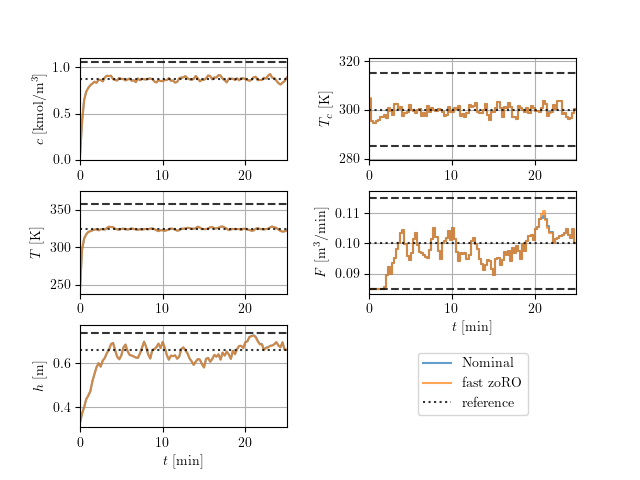
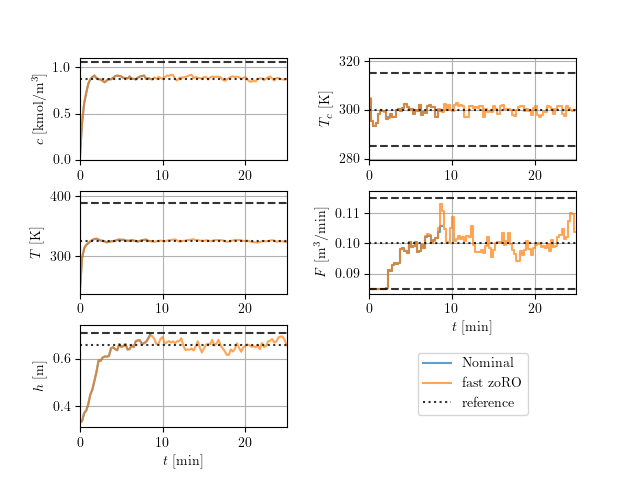
cstr: constraint violation with nominal MPC

diff --git a/examples/acados_python/zoRO_example/cstr/main.py b/examples/acados_python/zoRO_example/cstr/main.py
@@ -22,6 +22,8 @@ def samplesFromEllipsoid(N, w, Z)->np.ndarray:
     draws samples from ellipsoid with center w and variability matrix Z
     """
 
+    np.random.seed(1)
+
     nw = w.shape[0]                  # dimension
     lam, v = np.linalg.eig(Z)
 
@@ -46,7 +48,8 @@ def simulate(
     X_ref: np.ndarray,
     U_ref: np.ndarray,
     cstr_tightening: Boolean,
-    dist_samples: np.ndarray
+    dist_samples: np.ndarray,
+    ubx: np.ndarray
 ):
 
     nx = X_ref.shape[1]
@@ -57,53 +60,79 @@ def simulate(
     timings_solver = np.zeros((Nsim))
     timings_integrator = np.zeros((Nsim))
 
+    Nexec = 10
+
     # closed loop
     xcurrent = x0
     X[0, :] = xcurrent
 
-    for i in range(Nsim):
+    for i_exec in range(Nexec):
+        # Reset the controller
+        xcurrent = x0
+        controller.reset()
+        for i_stage in range(0, controller.acados_ocp.dims.N):
+            controller.set(i_stage, 'u', np.zeros((controller.acados_ocp.dims.nu,)))
+            controller.set(i_stage, 'x', x0)
 
-        # set initial state
-        controller.set(0, "lbx", xcurrent)
-        controller.set(0, "ubx", xcurrent)
+        for i_sim in range(Nsim):
 
-        yref = np.concatenate((X_ref[i, :], U_ref[i, :]))
-        for stage in range(controller.acados_ocp.dims.N):
-            controller.set(stage, "yref", yref)
-        controller.set(controller.acados_ocp.dims.N, "yref", X_ref[i, :])
+            # set initial state
+            controller.set(0, "lbx", xcurrent)
+            controller.set(0, "ubx", xcurrent)
 
-        if cstr_tightening:
-            controller.custom_update([])
+            yref = np.concatenate((X_ref[i_sim, :], U_ref[i_sim, :]))
+            for stage in range(controller.acados_ocp.dims.N):
+                controller.set(stage, "yref", yref)
+            controller.set(controller.acados_ocp.dims.N, "yref", X_ref[i_sim, :])
 
-        # solve ocp
-        status = controller.solve()
+            if cstr_tightening:
+                controller.custom_update([])
 
-        if status != 0:
-            controller.print_statistics()
-            raise Exception(
-                f"acados controller returned status {status} in simulation step {i}. Exiting."
-            )
+            # solve ocp
+            status = controller.solve()
 
-        U[i, :] = controller.get(0, "u")
-        timings_solver[i] = controller.get_stats("time_tot")
+            if status != 0:
+                controller.print_statistics()
+                raise Exception(
+                    f"acados controller returned status {status} in simulation step {i_sim}. Exiting."
+                )
 
-        # simulate system
-        plant.set("x", xcurrent)
-        plant.set("u", U[i, :])
+            U[i_sim, :] = controller.get(0, "u")
+            if i_exec ==0:
+                timings_solver[i_sim] = controller.get_stats("time_tot")
+            else:
+                timings_solver[i_sim] = min(controller.get_stats("time_tot"), timings_solver[i_sim])
 
-        if plant.acados_sim.solver_options.integrator_type == "IRK":
-            plant.set("xdot", np.zeros((nx,)))
+            # simulate system
+            plant.set("x", xcurrent)
+            plant.set("u", U[i_sim, :])
 
-        status = plant.solve()
-        if status != 0:
-            raise Exception(
-                f"acados integrator returned status {status} in simulation step {i}. Exiting."
-            )
+            if plant.acados_sim.solver_options.integrator_type == "IRK":
+                plant.set("xdot", np.zeros((nx,)))
 
-        timings_integrator[i] = plant.get("time_tot")
-        # update state
-        xcurrent = plant.get("x") + dist_samples[i,:]
-        X[i + 1, :] = xcurrent
+            status = plant.solve()
+            if status != 0:
+                raise Exception(
+                    f"acados integrator returned status {status} in simulation step {i_sim}. Exiting."
+                )
+
+            if i_exec == 0:
+                timings_integrator[i_sim] = plant.get("time_tot")
+            else:
+                timings_integrator[i_sim] = min(plant.get("time_tot"), timings_integrator[i_sim])
+
+            # update state
+            xcurrent = plant.get("x") + dist_samples[i_sim,:]
+            X[i_sim + 1, :] = xcurrent
+
+            # if exceeds the upper bound of the state constraints
+            if (xcurrent > ubx).any():
+                X[(i_sim+1):, :] = np.nan
+                U[min(i_sim+1, Nsim):, :] = np.nan
+                timings_solver[min(i_sim+1, Nsim):] = np.nan
+                timings_integrator[min(i_sim+1, Nsim):] = np.nan
+                print("exceed the upper bound at i_sim=", i_sim)
+                break
 
     return X, U, timings_solver, timings_integrator
 
@@ -150,10 +179,10 @@ def main():
     mpc_params.cstr_tightening = False
     ocp_solver = setup_acados_ocp_solver(model, mpc_params, cstr_params=cstr_params, dist_params=dist_params)
 
+    ubx = cstr_params.xs * (1.0 + np.array([dist_params.c_exceed_ratio, dist_params.t_exceed_ratio, dist_params.h_exceed_ratio]))
     X, U, timings_solver, _ = simulate(
         ocp_solver, integrator, x0, Nsim, X_ref=X_ref, U_ref=U_ref, \
-            cstr_tightening=False, dist_samples = dist_samples,
-    )
+            cstr_tightening=False, dist_samples=dist_samples, ubx=ubx)
     X_all.append(X)
     U_all.append(U)
     timings_solver_all.append(timings_solver)
@@ -168,8 +197,7 @@ def main():
 
     X, U, timings_solver, _ = simulate(
         ocp_solver, integrator, x0, Nsim, X_ref=X_ref, U_ref=U_ref, \
-            cstr_tightening=True, dist_samples = dist_samples,
-    )
+            cstr_tightening=True, dist_samples=dist_samples, ubx = ubx)
     X_all.append(X)
     U_all.append(U)
     timings_solver_all.append(timings_solver)
@@ -182,7 +210,7 @@ def main():
         label = labels_all[i]
         timings_solver = timings_solver_all[i] * 1e3
         print(
-            f"{label}:\n min: {np.min(timings_solver):.3f} ms, mean: {np.mean(timings_solver):.3f} ms, max: {np.max(timings_solver):.3f} ms\n"
+            f"{label}:\n min: {np.nanmin(timings_solver):.3f} ms, mean: {np.nanmean(timings_solver):.3f} ms, max: {np.nanmax(timings_solver):.3f} ms\n"
         )
 
     matplotlib.use("TkAgg")

diff --git a/examples/acados_python/zoRO_example/custom_update_function_zoro_template.in.c b/examples/acados_python/zoRO_example/custom_update_function_zoro_template.in.c
@@ -674,13 +674,6 @@ static void uncertainty_propagate_and_update(ocp_nlp_solver *solver, ocp_nlp_in 
             + sqrt(blasfeo_dgeex1(&custom_mem->uncertainty_matrix_buffer[N],
                 custom_mem->idxbx_e[{{it}}],custom_mem->idxbx_e[{{it}}]));
     {%- endfor %}
-    // printf("P_k+1:\n");
-    // blasfeo_print_exp_dmat(nx, nx, &(custom_mem->uncertainty_matrix_buffer[N]), 0, 0);
-    // printf("d_lbx=%f, %f. beta=%f, %f. d_lbx_tightened=%f, %f.\n",
-    //         custom_mem->d_lbx_e[0], custom_mem->d_lbx_e[1],
-    //         sqrt(blasfeo_dgeex1(&custom_mem->uncertainty_matrix_buffer[N], 3, 3)),
-    //         sqrt(blasfeo_dgeex1(&custom_mem->uncertainty_matrix_buffer[N], 4, 4)),
-    //         custom_mem->d_lbx_e_tightened[0], custom_mem->d_lbx_e_tightened[1]);
     ocp_nlp_constraints_model_set(nlp_config, nlp_dims, nlp_in, N, "lbx", custom_mem->d_lbx_e_tightened);
 {%- endif %}
 {% if zoro_stuff.nubx_e_t > 0 %}
@@ -690,11 +683,6 @@ static void uncertainty_propagate_and_update(ocp_nlp_solver *solver, ocp_nlp_in 
             - sqrt(blasfeo_dgeex1(&custom_mem->uncertainty_matrix_buffer[N],
                 custom_mem->idxbx_e[{{it}}],custom_mem->idxbx_e[{{it}}]));
     {%- endfor %}
-    // printf("d_ubx=%f, %f. beta=%f, %f. d_ubx_tightened=%f, %f.\n",
-    //         custom_mem->d_ubx_e[0], custom_mem->d_ubx_e[1],
-    //         sqrt(blasfeo_dgeex1(&custom_mem->uncertainty_matrix_buffer[N], 3, 3)),
-    //         sqrt(blasfeo_dgeex1(&custom_mem->uncertainty_matrix_buffer[N], 4, 4)),
-    //         custom_mem->d_ubx_e_tightened[0], custom_mem->d_ubx_e_tightened[1]);
     ocp_nlp_constraints_model_set(nlp_config, nlp_dims, nlp_in, N, "ubx", custom_mem->d_ubx_e_tightened);
 {%- endif %}
 {%- endif %}

diff --git a/examples/acados_python/zoRO_example/cstr/zoro_ocp_solver.py b/examples/acados_python/zoRO_example/cstr/zoro_ocp_solver.py
@@ -79,8 +79,8 @@ class MpcCSTRParameters:
 class DistCSTRParameters:
     W_mat: np.ndarray = np.diag([0.001, 0.3, 0.001])
     c_exceed_ratio: float = 0.2
-    t_exceed_ratio: float = 0.1
-    h_exceed_ratio: float = 0.12
+    t_exceed_ratio: float = 0.2
+    h_exceed_ratio: float = 0.075
 
 
 def setup_acados_ocp_solver(
@@ -186,6 +186,9 @@ def setup_acados_ocp_solver(
 
     # create
     ocp_solver = AcadosOcpSolver(ocp, json_file="acados_ocp.json")
+    # AcadosOcpSolver.generate(ocp, json_file='acados_ocp_' + model.name + '.json')
+    # AcadosOcpSolver.build(ocp.code_export_directory, with_cython=True)
+    # ocp_solver = AcadosOcpSolver.create_cython_solver('acados_ocp_' + model.name + '.json')
 
     return ocp_solver
 

diff --git a/examples/acados_python/zoRO_example/readme.md b/examples/acados_python/zoRO_example/readme.md
@@ -26,7 +26,7 @@ State and input trajectory ($\mathrm{max\_iter} = 1$):
 ![plot](./figures/trajectory_cstr.png)
 
 Nominal:
- min: 0.761 ms, mean: 1.913 ms, max: 4.984 ms
+ min: 1.079 ms, mean: 1.937 ms, max: 5.451 ms
 
-zoRO:
- min: 0.861 ms, mean: 2.368 ms, max: 5.111 ms
+fast zoRO:
+ min: 1.328 ms, mean: 2.333 ms, max: 4.767 ms
